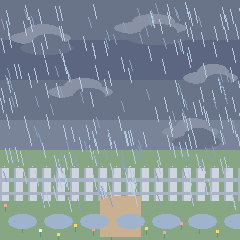
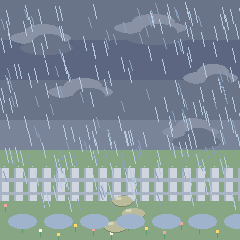
fix(assets): replace the tan block in the yard pictures with stepping stones tinted from the ground; label time-of-day weather words

Changed region(s): [[0.4083, 0.8167, 0.6125, 0.9917]]

diff --git a/apps/pwa/src/types/weather.types.ts b/apps/pwa/src/types/weather.types.ts
@@ -26,6 +26,6 @@ export interface SaveLocationInput {
 
 /** How the pet world's weather words read in Chinese. */
 export const WEATHER_LABEL: Record<string, string> = {
-  clear: '晴', cloudy: '多雲', fog: '起霧', drizzle: '毛毛雨', shower: '陣雨', thunder: '雷雨', typhoon: '颱風', snow: '下雪', cold: '寒冷', petals: '花瓣飄落',
+  clear: '晴', cloudy: '多雲', fog: '起霧', drizzle: '毛毛雨', shower: '陣雨', thunder: '雷雨', typhoon: '颱風', snow: '下雪', cold: '寒冷', petals: '花瓣飄落', sunrise: '日出', sunset: '日落', starry: '星空',
 }
 export const SOURCE_LABEL: Record<string, string> = { cwa: '中央氣象署', 'open-meteo': 'Open-Meteo', simulated: '模擬天氣' }

diff --git a/tools/pixel-art/game/gear_world.py b/tools/pixel-art/game/gear_world.py
@@ -482,6 +482,22 @@ def weather_sunrise_balcony():
     return s
 
 
+def _tint(base, toward, t):
+    """Mix two #rrggbb colours (t = how far toward the second)."""
+    a = [int(base[i:i + 2], 16) for i in (1, 3, 5)]
+    b = [int(toward[i:i + 2], 16) for i in (1, 3, 5)]
+    return "#%02x%02x%02x" % tuple(round(x + (y - x) * t) for x, y in zip(a, b))
+
+
+def _stones(s, ground):
+    """A few round stepping stones leading down from the gate, tinted from the ground so they belong to every weather and time of day."""
+    stone, edge_c, light = _tint(ground, "#d8c8a8", 0.62), _tint(ground, "#6a5a48", 0.45), _tint(ground, "#f4ead2", 0.7)
+    for x0, y0, x1, y1 in ((112, 196, 132, 205), (122, 208, 144, 218), (104, 221, 126, 231)):
+        s.ellipse(x0, y0 + 1, x1, y1 + 1, edge_c)        # a little shadow under the stone
+        s.ellipse(x0, y0, x1, y1, stone)
+        s.ellipse(x0 + 3, y0 + 1, x0 + 9, y0 + 3, light)  # a highlight on its top-left
+
+
 def weather_sunrise_yard():
     s = weather_sunrise_window()
     s.rect(0, 150, 239, 239, "#a8d890")
@@ -492,7 +508,7 @@ def weather_sunrise_yard():
     for i in range(14):                                                       # grass + flowers
         x, y = (i * 53) % 230 + 4, 204 + (i * 29) % 30
         s.rect(x, y, x + 2, y + 2, ("#f4a6a0", "#ffd86b", "#fff6e2")[i % 3]); s.line(x + 1, y + 3, x + 1, y + 7, "#5f9a6a")
-    s.rect(100, 196, 140, 236, "#c8b090")                                     # stepping path
+    _stones(s, "#a8d890")                                                   # stepping stones
     return s
 
 

diff --git a/tools/pixel-art/game/gear_world2.py b/tools/pixel-art/game/gear_world2.py
@@ -367,7 +367,7 @@ def _yard(s, ground="#a8d890", fence="#fff6e2", shade="#e8dcc4"):
     for i in range(14):
         x, y = (i * 53) % 230 + 4, 204 + (i * 29) % 30
         s.rect(x, y, x + 2, y + 2, ("#f4a6a0", "#ffd86b", "#fff6e2")[i % 3]); s.line(x + 1, y + 3, x + 1, y + 7, "#5f9a6a")
-    s.rect(100, 196, 140, 236, "#c8b090")
+    gear_world._stones(s, ground)                                                  # stepping stones, tinted from the ground
 
 
 def _sunset_sky(s):
